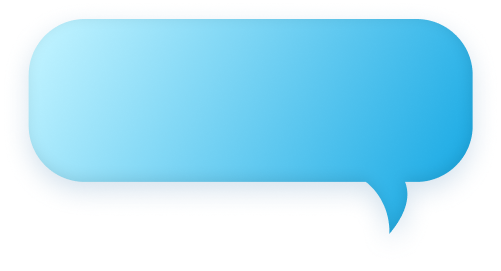
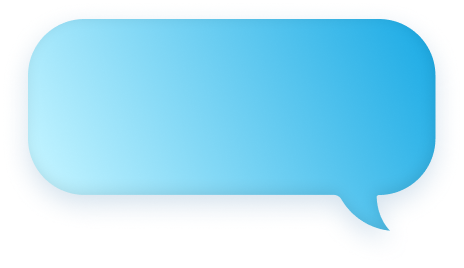
new styling on bot modal and new bubble assets

diff --git a/styles/modals.css b/styles/modals.css
@@ -1,9 +1,69 @@
-/* LOBBY MODAL */
+
+
+/*#region RULES MODAL*/
+
+#ruleModal {
+  opacity: 0;
+  transition: all 0.35s;
+  width: 22rem;
+}
+
+.rules {
+  visibility: hidden;
+  position: fixed;
+  z-index: 10;
+  margin: 0 .7rem 0 .7rem;
+  top: 1rem;
+  overflow: auto;
+  background: linear-gradient(
+    180deg,
+    rgba(212, 206, 220, 0.6) 0%,
+    rgba(23, 38, 77, 0.6) 100%
+  );
+  backdrop-filter: blur(1rem);
+  transition: block 4s;
+  position: fixed;
+  border-radius: 2rem;
+}
+
+.close {
+  color: white;
+  float: right;
+  font-size: 28px;
+  font-weight: bold;
+  cursor: pointer;
+  opacity: 1;
+}
+
+.rulesContent, .rulesContent > p {
+  display: flex;
+  flex-direction: column;
+  justify-content: center;
+  align-items: center;
+  width: 80%; /* Could be more or less, depending on screen size */
+  color: white;
+  text-align: center;
+  font-size: 1.2rem;
+  height: 40rem;
+}
+
+.ruleTitle {
+  display: flex;
+  flex-direction: row;
+  font-size: 1.1rem;
+}
+
+/*#endregion */
+
+
+/*region LOBBY MODAL BOT INFORMATION */
 
 #botModal {
   opacity: 0;
   transition: all 0.35s;
+  width: 22rem;
 }
+
 .botModal {
   visibility: hidden;
   z-index: 10;
@@ -18,27 +78,14 @@
   backdrop-filter: blur(1rem);
   transition: block 4s;
   position: absolute;
-  border-radius: 4rem;
-  /* left: 10%; */
-  margin: 0 2.5rem 0 2.5rem;
-
+  border-radius: 2rem;
+  margin: 0 .7rem 0 .7rem;
   display: flex;
   justify-content: center;
 }
 
 #botClose {
-  margin-top: 2rem;
-}
-.botModalContent {
-  display: flex;
-  flex-direction: column;
-  justify-content: center;
-
-  /* margin:  auto; 10% from the top and centered */
-  width: 80%; /* Could be more or less, depending on screen size */
-  color: white;
-  text-align: center;
-  padding-top: 0;
+  margin-top: 1rem;
 }
 
 .modalTop {
@@ -46,9 +93,20 @@
   flex-direction: row-reverse;
 }
 
+.botModalContent {
+  display: flex;
+  flex-direction: column;
+  justify-content: center;
+  width: 80%; /* Could be more or less, depending on screen size */
+  color: white;
+  text-align: center;
+  padding-top: 1rem;
+  height: 45rem;
+}
+
 .botListWrapper {
   padding-top: 0rem;
-  padding-bottom: 1rem;
+  padding-bottom: 4rem;
 }
 
 .botWrapper {
@@ -87,3 +145,5 @@
   padding: 0.3rem 0 0 0;
   letter-spacing: 0.1;
 }
+
+/*#endregion */

diff --git a/styles/main.css b/styles/main.css
@@ -33,7 +33,7 @@ p {
 
 #textTL,
 #textTR {
-  padding-bottom: 1.5rem;
+  padding-bottom: 1rem;
   font-size: 1rem;
   letter-spacing: 6%;
   width: 8rem;
@@ -42,7 +42,7 @@ p {
 
 #textBL,
 #textBR {
-  padding-top: 1rem;
+  padding-top: .7rem;
   font-size: 1rem;
   letter-spacing: 6%;
   width: 8rem;
@@ -201,65 +201,6 @@ lottie-player {
   /* background-color: blue; */
 }
 
-/* rule modal */
-
-#ruleModal {
-  opacity: 0;
-  transition: all 0.35s;
-}
-
-.rules {
-  visibility: hidden;
-  position: fixed;
-  z-index: 10;
-  margin: 0 2.5rem 0 2.5rem;
-  height: 40rem;
-  top: 1rem;
-  overflow: auto;
-  background: linear-gradient(
-    180deg,
-    rgba(212, 206, 220, 0.6) 0%,
-    rgba(23, 38, 77, 0.6) 100%
-  );
-  backdrop-filter: blur(1rem);
-  transition: block 4s;
-  position: fixed;
-  border-radius: 4rem;
-}
-.close {
-  color: white;
-  float: right;
-  font-size: 28px;
-  font-weight: bold;
-  cursor: pointer;
-
-  opacity: 1;
-}
-
-.rulesContent {
-  margin: 15% auto; /* 15% from the top and centered */
-  padding: 20px;
-  width: 80%; /* Could be more or less, depending on screen size */
-  color: white;
-  text-align: center;
-}
-
-.ruleTitle {
-  font-size: 1.1rem;
-}
-
-.inputWrapper {
-  display: flex;
-  flex-direction: column;
-  align-items: center;
-  /* background-color: khaki; */
-  width: 100%;
-  height: 1rem;
-  justify-content: center;
-}
-.inputWrapper > input {
-  width: 15rem;
-}
 
 /* high score module */
 
@@ -322,6 +263,20 @@ lottie-player {
   border-radius: 270px;
   outline: none;
 }
+
+.inputWrapper {
+  display: flex;
+  flex-direction: column;
+  align-items: center;
+  width: 100%;
+  height: 1rem;
+  justify-content: center;
+}
+
+.inputWrapper > input {
+  width: 15rem;
+}
+
 
 .answerContainer {
   display: flex;

diff --git a/index.html b/index.html
@@ -8,7 +8,7 @@
     <script defer src="./dist/index.js"></script>
 
     <link rel="stylesheet" href="./styles/main.css" />
-    <link rel="stylesheet" href="./styles/lobby.css" />
+    <link rel="stylesheet" href="./styles/modals.css" />
     <link rel="stylesheet" href="./styles/desktop.css" />
     <link rel="preconnect" href="https://fonts.gstatic.com" />
     <link
@@ -62,17 +62,17 @@
 
     <div id="botWrapper" class="botContainer"></div>
 
-    <div id="buttonWrapper" class="buttonContainer"></div>
-
     <div id="ruleModal" class="rules">
       <div class="rulesContent">
+        <div class="modalTop">
         <span class="close" id="close">&times;</span>
         <br><br>
         <h2 class="ruleTitle">Welcome to Digit Dash!</h2>
+      </div>
         <p>
           In this fun game each contestant takes turn guessing for a number
-          between 1 and 25 that the game master (Kitt) has in mind.<br><br>
-          Kitt will tell you if the number she is thinking of is higher or lower than your
+          between 1 and 100 that the game master (Kit) has in mind.<br><br>
+          Kit will tell you if the number she is thinking of is higher or lower than your
           guess. You only have 10 seconds to pick a number, so act fast.<br /><br />
           The first contestant to guess the correct number is named the winner!
         </p>

diff --git a/styles/Desktop.css b/styles/Desktop.css
@@ -26,14 +26,14 @@
   }
 
   #textTL, #textTR {
-    padding-bottom: 1.5rem;
+    padding-bottom: 1rem;
     font-size: 1rem;
     letter-spacing: 6%;
     color: white;
   }
 
   #textBL, #textBR {
-    padding-top: 1rem;
+    padding-top: .5rem;
     font-size: 1rem;
     letter-spacing: 6%;
     color: white;
@@ -67,24 +67,19 @@
   }
 
   .rules {
-    top: 1rem;
     width: 30rem;
     height: 75%;
     margin: auto;
     max-width: 100%;
-    max-height: 55rem;
-    /* left: 25vw; */
   }
 
   .botModal {
     top: 1rem;
     width: 30rem;
     height: 75%;
-    /* margin-left: auto; */
     display: flex;
     max-width: 100%;
     max-height: 55rem;
-    /* left: 25vw; */
   }
 
   .botModalContent {
@@ -118,6 +113,7 @@
   #winnerModal{
     width: 70%;
   }
+  
    .winnerScreen{
     top: 1rem;
     width: 90%;
@@ -135,4 +131,12 @@
   .winnerContent > p{
     font-size: 2.8rem;
   }
+}
+
+#userInput, #inputField {
+  height: 2.8rem;
+}
+
+#ruleModal {
+  height: auto;
 }
